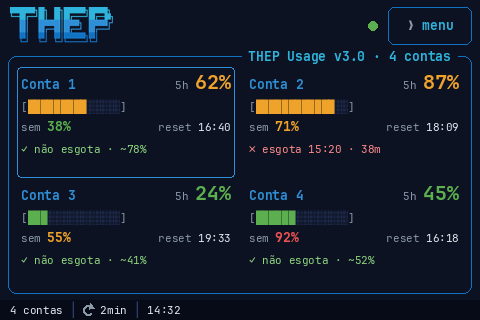
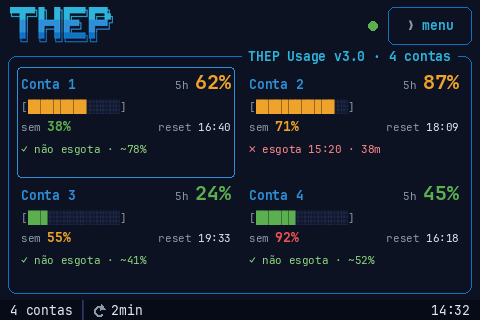
🎨 style(firmware): rodapé em 13 px com o relógio na borda direita
O relógio passa para a borda direita, que com a tela girada 270° são as
primeiras linhas nativas: a troca de minuto envia ~50 linhas em vez de ~459.
Mockups regenerados com o rodapé novo.

Changed region(s): [[0.0312, 0.9375, 0.375, 1.0], [0.9062, 0.9375, 0.9688, 1.0]]

diff --git a/firmware/claude_stick/src/ui/shell.cpp b/firmware/claude_stick/src/ui/shell.cpp
@@ -90,7 +90,7 @@ void title_cb(lv_event_t* e) {
 }
 
 lv_obj_t* footer_sep(lv_obj_t* p) {
-    lv_obj_t* l = label(p, "\xE2\x94\x82", theme_font(FONT_11), C_UNLIT);   // │
+    lv_obj_t* l = label(p, "\xE2\x94\x82", theme_font(FONT_13), C_UNLIT);   // │
     lv_obj_set_style_pad_hor(l, 2, 0);
     return l;
 }
@@ -184,15 +184,22 @@ void build_footer() {
     lv_obj_set_flex_align(f, LV_FLEX_ALIGN_START, LV_FLEX_ALIGN_CENTER, LV_FLEX_ALIGN_CENTER);
     lv_obj_remove_flag(f, LV_OBJ_FLAG_CLICKABLE);
 
-    const lv_font_t* f11 = theme_font(FONT_11);
-    // Pássaro e "thep" saíram do rodapé (pedido do dono): o rodapé começa
-    // direto na contagem de contas.
-    s_footAcct = label(f, "", f11, C_TEXT);
+    // Rodapé em 13 px (pedido do dono). Pássaro e "thep" saíram: começa direto
+    // na contagem de contas.
+    const lv_font_t* f13 = theme_font(FONT_13);
+    s_footAcct = label(f, "", f13, C_TEXT);
     footer_sep(f);
-    label(f, LV_SYMBOL_REFRESH, f11, C_DIM);          // ↻ pela Montserrat 14 (fallback)
-    s_footPoll = label(f, "", f11, C_TEXT);
-    footer_sep(f);
-    s_footClock = label(f, "--:--", f11, C_TEXT);
+    label(f, LV_SYMBOL_REFRESH, f13, C_DIM);          // ↻ pela Montserrat 14 (fallback)
+    s_footPoll = label(f, "", f13, C_TEXT);
+    // O relógio fica na borda DIREITA: com a tela girada 270°, a borda direita da
+    // paisagem são as primeiras linhas nativas, e o envio em faixas sempre começa
+    // na linha 0. Na esquerda, a troca de minuto mandava ~459 das 480 linhas;
+    // na direita manda só ~50.
+    lv_obj_t* spacer = lv_obj_create(f);
+    bare(spacer);
+    lv_obj_set_height(spacer, 1);
+    lv_obj_set_flex_grow(spacer, 1);
+    s_footClock = label(f, "--:--", f13, C_TEXT);
 }
 
 }  // namespace

diff --git a/tools/gen_mockups.py b/tools/gen_mockups.py
@@ -231,21 +231,22 @@ def shell(title, dot=C_OK, menu_open=False, accounts=2, failed=0, poll="2min", c
     c.rect((tx, ty + 3, tx + tw, ty + FB13.line_height - 3), fill=C_BG)
     c.text_top(tx + 6, ty, title, FB13, C_TITLE)
     fits("título do painel", title, FB13, 464 - 30 - 84)
-    # rodapé: "N contas · K ✗ │ ↻ 2min │ 14:32" (sem pássaro nem "thep")
+    # rodapé em 13 px: "N contas · K ✗ │ ↻ 2min" à esquerda e o relógio na
+    # borda direita (sem pássaro nem "thep"), como em shell.cpp
     c.rect((0, H - 20, W - 1, H - 1), fill=C_STATUSBAR)
     acct = "1 conta" if accounts == 1 else f"{accounts} contas"
     if failed:
         acct += f" · {failed} ✗"
-    base = H - 20 + 10 + 4
+    base = H - 20 + 10 + 5
     x = 10
-    for part, col in ((acct, C_TEXT), ("│", C_UNLIT), ("↻", C_DIM), (poll, C_TEXT),
-                      ("│", C_UNLIT), (clock, C_TEXT)):
+    for part, col in ((acct, C_TEXT), ("│", C_UNLIT), ("↻", C_DIM), (poll, C_TEXT)):
         pad = 2 if part == "│" else 0
         x += pad
         if part == "↻":
             x += c.refresh_icon(x, base, col) + 5
             continue
-        x += c.text(x, base, part, F11, col) + pad + 5
+        x += c.text(x, base, part, F13, col) + pad + 5
+    c.text(W - 10 - F13.w(clock), base, clock, F13, C_TEXT)
     return c
 
 
